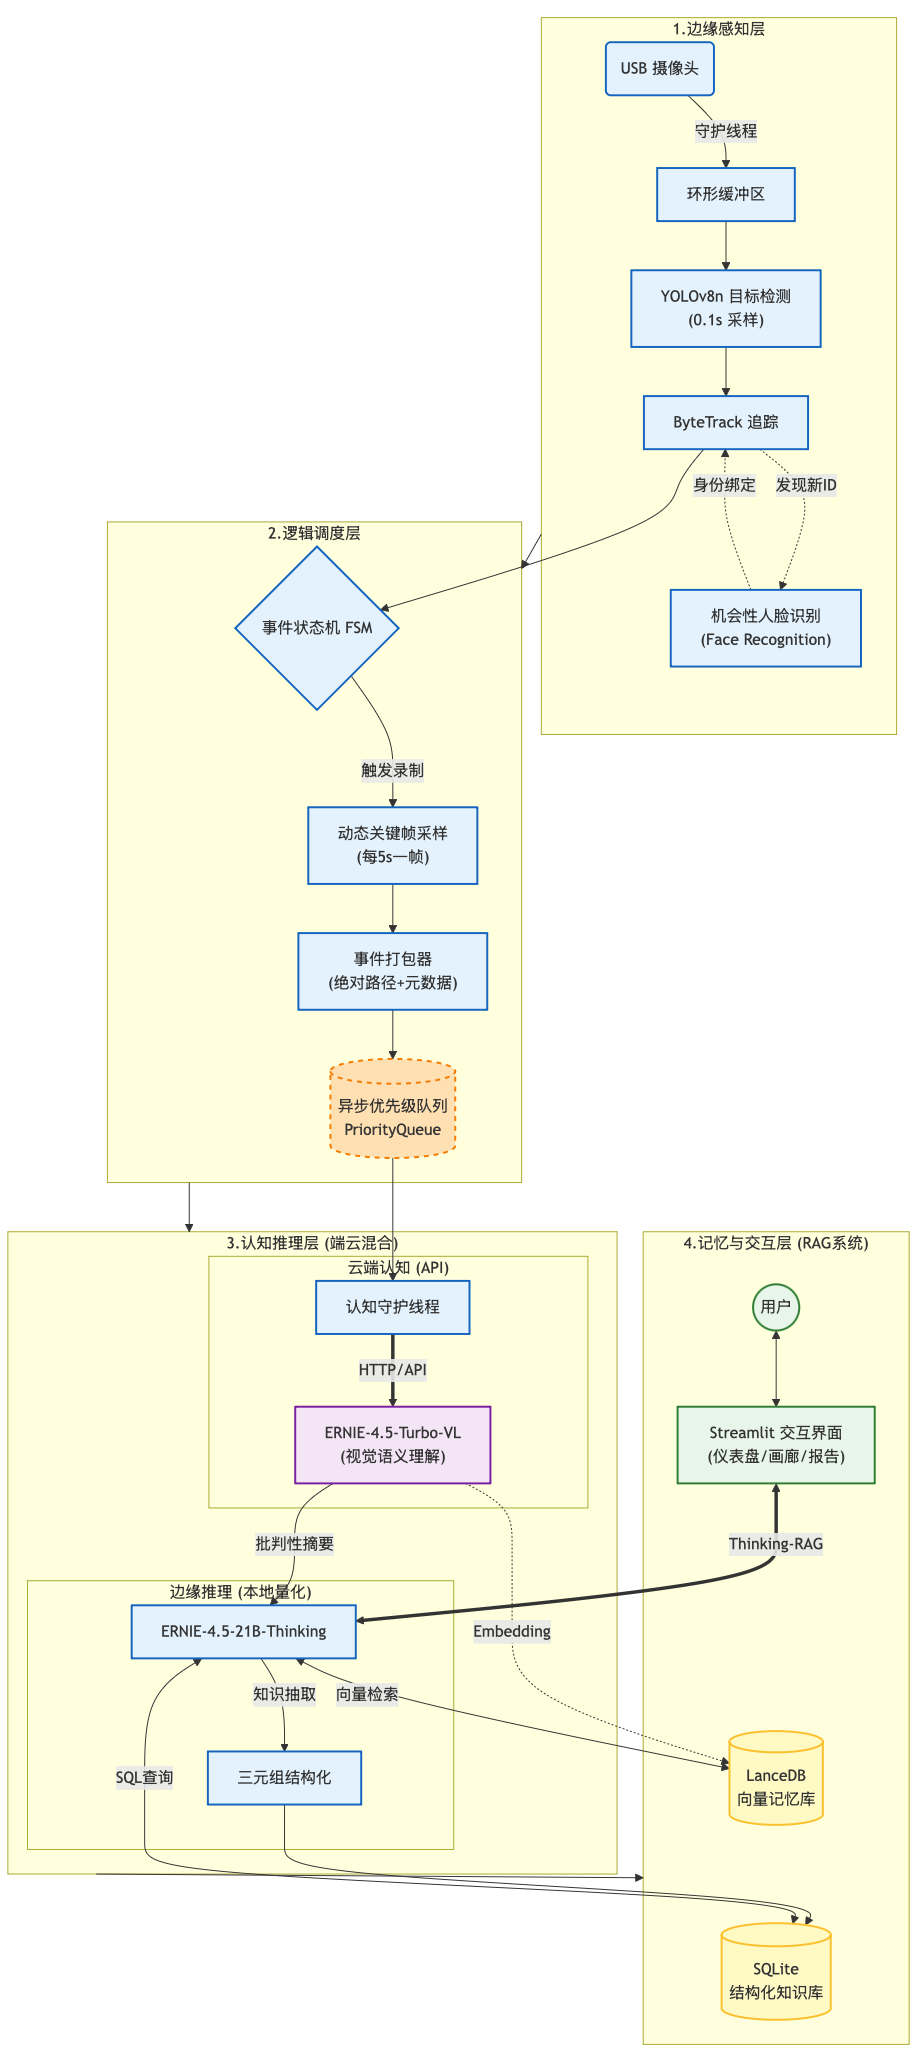
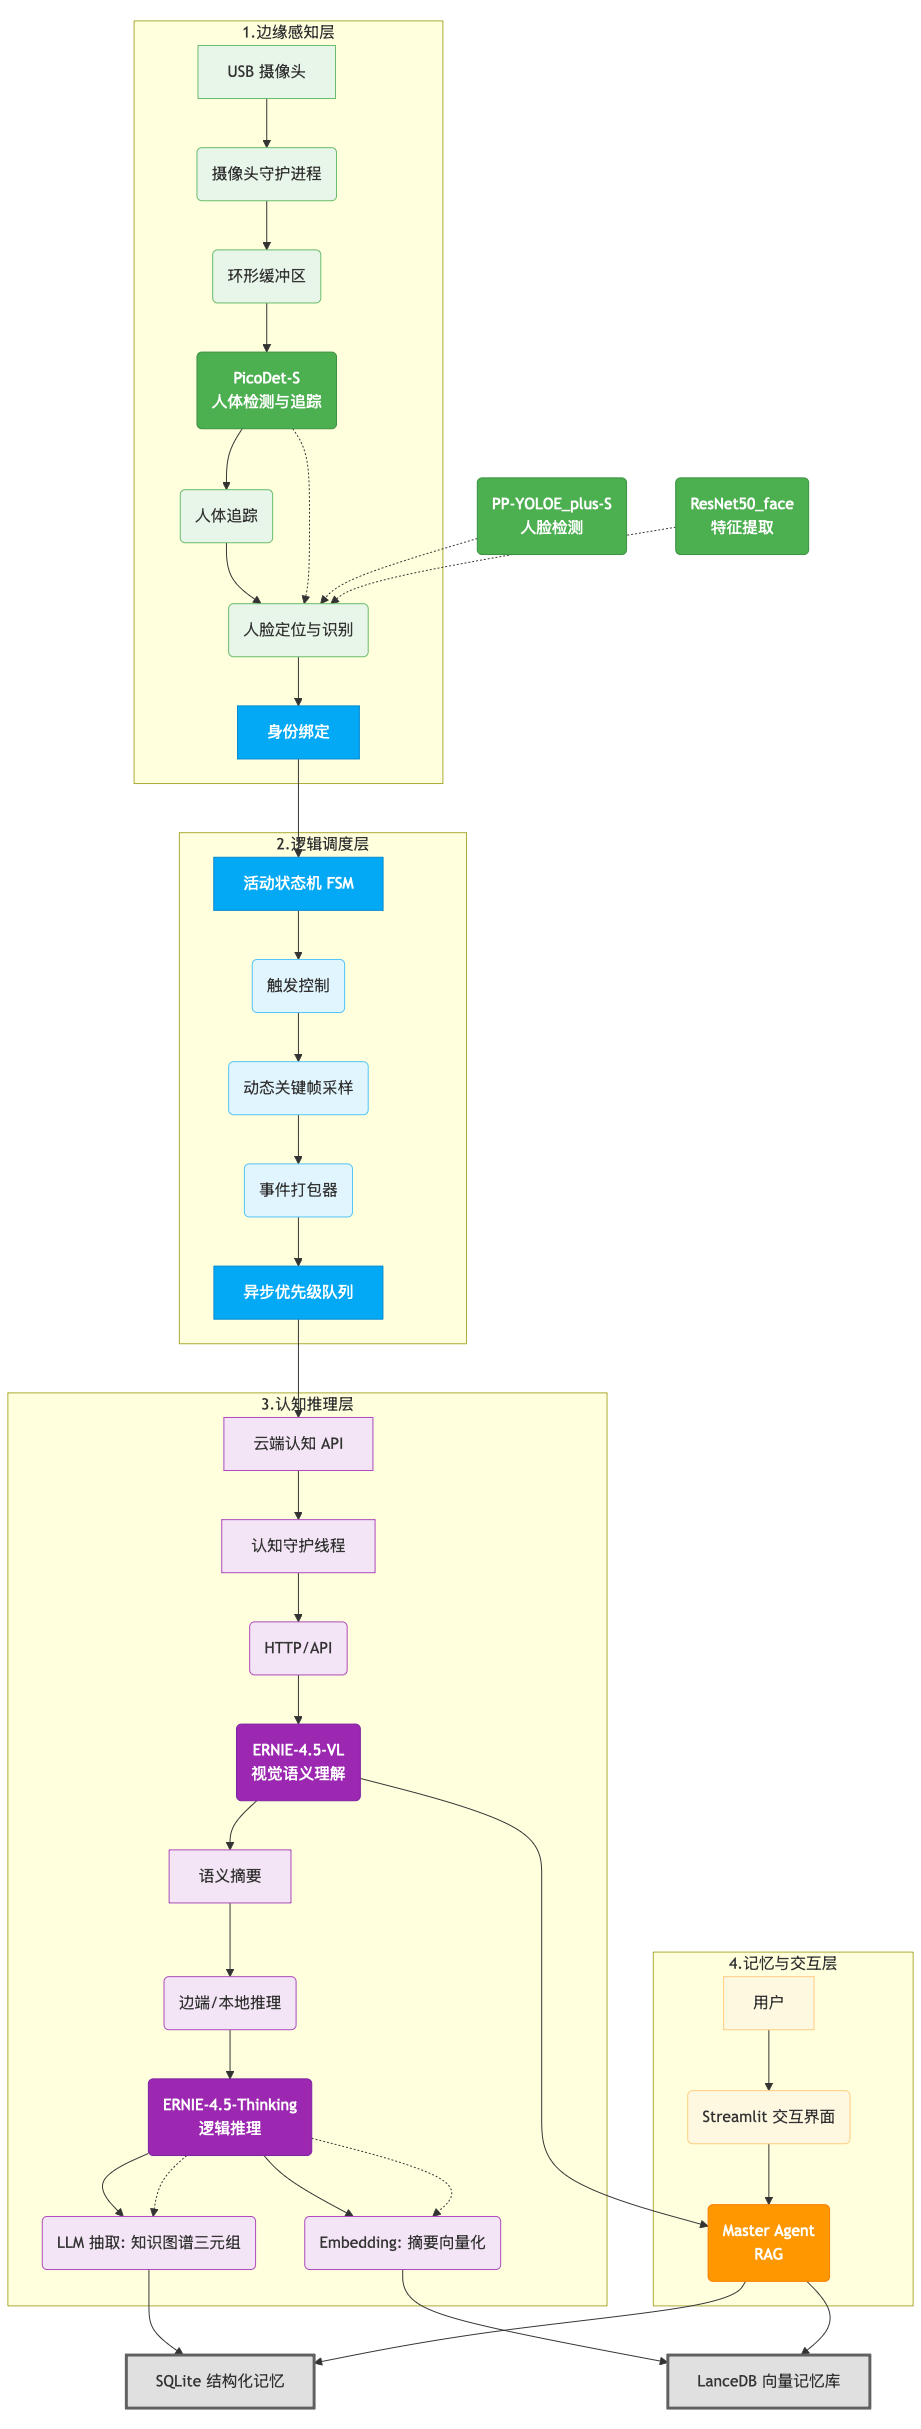
调整README

diff --git a/src/cognition/cognitive_core.py b/src/cognition/cognitive_core.py
@@ -11,10 +11,15 @@ logger = logging.getLogger(__name__)
 
 class CognitiveCore:
     def __init__(self):
-        print(f"  [Cognition] 初始化 AI Client...")
-        if not config.API_KEY:
-            logger.error("❌ API_KEY 未设置")
-        self.client = OpenAI(api_key=config.API_KEY, base_url=config.BASE_URL)
+        print(f"  [Cognition] 初始化 LVM Client...")
+        if not config.LVM_API_KEY:
+            logger.error("❌ LVM_API_KEY 未设置")
+        self.lvm_client = OpenAI(api_key=config.LVM_API_KEY, base_url=config.LVM_BASE_URL)
+        
+        print(f"  [Cognition] 初始化 LLM Client...")
+        if not config.LLM_API_KEY:
+            logger.error("❌ LLM_API_KEY 未设置")
+        self.llm_client = OpenAI(api_key=config.LLM_API_KEY, base_url=config.LLM_BASE_URL)
         
     def analyze_event(self, event_data):
         event_id = event_data['event_id']
@@ -113,8 +118,8 @@ class CognitiveCore:
         if valid_images == 0: return None
 
         try:
-            resp = self.client.chat.completions.create(
-                model=config.AI_VL_MODEL, 
+            resp = self.lvm_client.chat.completions.create(
+                model=config.LVM_MODEL_NAME, 
                 messages=[{"role": "user", "content": content}],
                 temperature=0.2,
                 max_tokens=1000, 
@@ -128,8 +133,8 @@ class CognitiveCore:
     def _extract_kg(self, text):
         prompt = f"提取实体和关系(JSON): {text}"
         try:
-            resp = self.client.chat.completions.create(
-                model=config.AI_THINKING_MODEL,
+            resp = self.llm_client.chat.completions.create(
+                model=config.LLM_MODEL_NAME,
                 messages=[{"role": "user", "content": prompt}],
                 temperature=0.1,
                 response_format={"type": "json_object"}

diff --git a/config.py b/config.py
@@ -21,14 +21,17 @@ SQLITE_DB_PATH = "./memory_db/knowledge.db"
 IMAGE_STORAGE_PATH = "./event_images"
 FACE_INDEX_DIR = "./face_index"
 
-# --- 模型 API 配置 (关键修复) ---
-# 优先读取 ERNIE_API_KEY，如果没有则尝试读取 API_KEY
-API_KEY = os.getenv("ERNIE_API_KEY") or os.getenv("API_KEY", "")
-BASE_URL = os.getenv("ERNIE_BASE_URL") or os.getenv("BASE_URL", "https://aistudio.baidu.com/llm/lmapi/v3")
+# --- 视觉大模型 API 配置 (LVM) ---
+LVM_API_KEY = os.getenv("LVM_API_KEY", "")
+LVM_BASE_URL = os.getenv("LVM_BASE_URL", "https://aistudio.baidu.com/llm/lmapi/v3")
+LVM_MODEL_NAME = "ernie-4.5-turbo-vl"  # 视觉模型
 
-# 模型名称
-AI_VL_MODEL = "ernie-4.5-turbo-vl"  # 视觉模型
-AI_THINKING_MODEL = "ernie-4.5-vl-28b-a3b-thinking" # 思考/总结模型
+# --- 语言大模型 API 配置 (LLM) ---
+LLM_API_KEY = os.getenv("LLM_API_KEY", "")
+LLM_BASE_URL = os.getenv("LLM_BASE_URL", "https://aistudio.baidu.com/llm/lmapi/v3")
+LLM_MODEL_NAME = "ernie-4.5-21b-a3b-thinking"  # 思考/总结模型
+
+# --- 其他模型 ---
 EMBEDDING_MODEL_PATH = "sentence-transformers/all-MiniLM-L6-v2"
 
 # PaddlePaddle 设置
@@ -36,5 +39,7 @@ PADDLE_DEVICE = "cpu" # 或 "gpu"
 DET_MODEL_NAME = "PPLCNet_x1_0_person_detection"
 
 # 检查 Key 是否存在
-if not API_KEY:
-    print("⚠ 警告: 未检测到 API_KEY，请检查 .env 文件！")
+if not LVM_API_KEY:
+    print("⚠ 警告: 未检测到 LVM_API_KEY，请检查 .env 文件！")
+if not LLM_API_KEY:
+    print("⚠ 警告: 未检测到 LLM_API_KEY，请检查 .env 文件！")

diff --git a/src/agent/master_agent.py b/src/agent/master_agent.py
@@ -12,11 +12,8 @@ logger = logging.getLogger(__name__)
 class MasterAgent:
     def __init__(self, memory: LongTermMemory):
         self.memory = memory
-        # 兼容 config 写法，优先读取 ERNIE 配置
-        api_key = getattr(config, 'API_KEY', getattr(config, 'ERNIE_API_KEY', ''))
-        base_url = getattr(config, 'BASE_URL', getattr(config, 'ERNIE_BASE_URL', ''))
-        
-        self.llm_client = OpenAI(api_key=api_key, base_url=base_url)
+        # 使用 LLM 配置
+        self.llm_client = OpenAI(api_key=config.LLM_API_KEY, base_url=config.LLM_BASE_URL)
         logger.info("MasterAgent initialized.")
 
     def _get_query_route(self, query: str) -> str:
@@ -36,7 +33,7 @@ class MasterAgent:
         """
         try:
             # 使用思考模型进行路由决策
-            model_name = getattr(config, 'AI_THINKING_MODEL', 'ernie-4.5-vl-28b-a3b-thinking')
+            model_name = config.LLM_MODEL_NAME
             response = self.llm_client.chat.completions.create(
                 model=model_name, 
                 messages=[{"role": "user", "content": prompt}], 
@@ -110,7 +107,7 @@ class MasterAgent:
         【用户问题】: {query}
         """
         try:
-            model_name = getattr(config, 'AI_THINKING_MODEL', 'ernie-4.5-vl-28b-a3b-thinking')
+            model_name = config.LLM_MODEL_NAME
             resp = self.llm_client.chat.completions.create(
                 model=model_name,
                 messages=[{"role": "user", "content": prompt}],

diff --git a/src/app/qa_interface.py b/src/app/qa_interface.py
@@ -19,7 +19,7 @@ logging.basicConfig(level=logging.INFO, format='%(asctime)s - %(levelname)s - %(
 class QA_Agent:
     def __init__(self):
         print("\n正在初始化命令行问答助手...")
-        self.memory = LongTermMemory(db_path=config.DB_PATH)
+        self.memory = LongTermMemory(db_path=config.SQLITE_DB_PATH)
         self.llm_client = OpenAI(api_key=config.LLM_API_KEY, base_url=config.LLM_BASE_URL)
         print("\n问答助手已就绪！请输入您的问题，或输入 '退出' 来结束。")
 

diff --git a/src/memory/long_term_memory.py b/src/memory/long_term_memory.py
@@ -39,7 +39,8 @@ class LongTermMemory:
         except:
             self.embedding_model = SentenceTransformer('all-MiniLM-L6-v2', device='cpu')
             
-        self.llm_client = OpenAI(api_key=config.API_KEY, base_url=config.BASE_URL)
+        # 使用 LLM 配置
+        self.llm_client = OpenAI(api_key=config.LLM_API_KEY, base_url=config.LLM_BASE_URL)
 
     def _init_sqlite_tables(self):
         with self.db_lock:

diff --git a/src/web_utils.py b/src/web_utils.py
@@ -236,7 +236,7 @@ def generate_daily_report_content(date_obj=None):
     try:
         if MASTER_AGENT:
             resp = MASTER_AGENT.llm_client.chat.completions.create(
-                model=config.AI_THINKING_MODEL, 
+                model=config.LLM_MODEL_NAME, 
                 messages=[{"role": "user", "content": prompt}], 
                 temperature=0.6 # 稍微提高温度，让文笔更好
             )

diff --git a/README.md b/README.md
@@ -1,51 +1,52 @@
-# HearthScribe: 基于文心大模型的智能家庭记忆助手
+# HearthScribe: 基于文心大模型的适老化智能看护系统
 
-**HearthScribe** 是一个深度集成 **百度文心大模型** 的智能代理系统。它不仅仅是一个摄像头监控程序，更是一个拥有“感知”、“认知”和“记忆”能力的家庭观察者。
+**HearthScribe** 是一个深度集成 **百度文心大模型** 的适老化智能看护系统。它不仅仅是一个摄像头监控程序，更是一个拥有“感知”、“认知”和“记忆”能力的家庭守护者，专为长者设计。
 
-本项目充分利用了文心大模型强大的多模态理解与逻辑推理能力。它能实时识别画面人物，利用 **ERNIE-4.5-VL** 捕捉并理解生活瞬间，生成语义化摘要，并构建本地知识图谱。用户可以通过自然语言与系统对话，检索过去的记忆，或生成基于事实的生活报告。
+本项目充分利用文心大模型强大的多模态理解与逻辑推理能力，能实时识别长者与家人的互动，利用 **ERNIE-4.5-VL** 捕捉生活瞬间，生成语义化摘要，并构建本地知识图谱。通过自然语言交互，用户可检索记忆、生成健康报告，实现 24 小时无微不至的 AI 关怀。
 
-![alt text](images/kg.png)
-
+![alt text](images/homepage.png)
 
 ## ✨ 核心功能
 
 *   **👁 智能感知与身份识别**
-    *   使用 **YOLOv8** 进行边缘端实时人体检测与追踪。
-    *   集成 **Face Recognition**，自动识别已注册的家庭成员身份。
-    *   **摄像头守护进程**：具备断线自动重连和错误恢复机制，确保持续稳定运行。
+    *   使用 **PaddleX 的 PicoDet-S (PPLCNet_x1_0_person_detection)** 进行边缘端实时人体检测与追踪，轻量高效，适用于 CPU/GPU 环境。
+    *   集成 **PaddleX 的 PP-YOLOE_plus-S_face** (人脸检测) + **ResNet50_face** (人脸识别)，自动识别长者及家庭成员身份，支持高精度特征提取。
+    *   **摄像头守护进程**：具备断线自动重连和错误恢复机制，确保持续稳定运行，24 小时不间断守护。
 
-*   **🧠 文心驱动的语义记忆**
-    *   **动态采样**：基于活动检测自动开始/停止录制，过滤无效画面。
-    *   **视觉认知 (ERNIE-4.5-VL)**：调用文心视觉大模型分析事件截图，精准理解人物行为、物体交互与场景细节（如“lizhijun正在书桌前阅读，手里拿着一杯咖啡”）。
-    *   **知识提取**：从摘要中提取实体（人物、物品、地点）和关系，构建结构化知识图谱。
+*   **🧠 文心驱动的语义记忆与健康认知**
+    *   **动态采样**：基于长者活动检测自动开始/停止录制，过滤无效画面，专注关键时刻。
+    *   **视觉认知 (ERNIE-4.5-VL)**：调用文心视觉大模型分析事件截图，精准理解长者行为、物体交互与场景细节（如“长者正在沙发上阅读，手里拿着一杯水”）。
+    *   **知识提取**：从摘要中提取实体（长者、物品、地点）和关系，构建结构化知识图谱，支持关系推理。
 
 *   **💾 双重记忆存储 (RAG)**
-    *   **向量记忆 (LanceDB)**：存储事件摘要的语义向量，支持模糊搜索。
-    *   **结构化记忆 (SQLite)**：存储元数据、知识图谱三元组和原始图片路径。
+    *   **向量记忆 (LanceDB)**：存储事件摘要的语义向量，支持模糊搜索长者历史活动。
+    *   **结构化记忆 (SQLite)**：存储元数据、知识图谱三元组和原始图片路径，便于健康数据追踪。
 
-*   **💬 自然语言交互**
-    *   **智能路由**：Master Agent 能够理解用户意图，自动调度“记忆检索”、“图谱推理”或“总结报告”专家。
-    *   **多轮问答 (ERNIE-4.5)**：基于检索增强生成 (RAG)，利用文心大模型优秀的中文理解能力，用自然语言流畅回答关于家庭历史的复杂问题。
-    *   **自动报告**：支持生成日报、周报，总结特定时间段内的活动模式。
+*   **💬 自然语言交互与关怀报告**
+    *   **智能路由**：Master Agent 理解用户意图，自动调度“记忆检索”、“图谱推理”或“健康总结”专家。
+    *   **多轮问答 (ERNIE-4.5)**：基于 RAG，利用文心大模型的中文理解能力，用温暖口吻回答关于长者历史的复杂问题（如“妈妈今天精神如何？”）。
+    *   **自动适老报告**：生成日报、周报，涵盖生活画像、健康评估、风险检测与专属建议，帮助子女远程关怀。
 
 ## 🏗 系统架构与运行逻辑
 
-系统主要由以下几个核心模块组成：
+系统主要由以下几个核心模块组成，专为适老场景优化：
 
 1.  **感知层 (`perception_processor.py`)**:
-    *   处理视频流，利用 YOLO 追踪 ID，结合人脸识别将 ID 映射为具体姓名。
+    *   处理视频流，利用 PaddleX 的 PicoDet-S 进行人体检测与追踪，结合 PP-YOLOE_plus-S_face + ResNet50_face 将检测框映射为长者姓名。
 2.  **记忆流 (`memory_stream.py`)**:
-    *   作为短期记忆缓冲区。当画面有人活动时开始缓存帧，静止超过阈值（如60秒）则判定事件结束，打包成“Event”。
+    *   作为短期记忆缓冲区。当画面检测到长者活动时开始缓存帧，静止超过阈值（如30秒）则判定事件结束，打包成“Event”。
 3.  **认知核心 (`cognitive_core.py`)**:
-    *   接收打包的 Event，选取关键帧发送给 **LVM (视觉大模型)** 生成摘要。
-    *   调用 **LLM** 从摘要中提取 Knowledge Graph (KG) 数据。
+    *   接收打包的 Event，选取关键帧发送给 **LVM (视觉大模型)** 生成摘要，评估交互与风险。
+    *   调用 **LLM** 从摘要中提取 Knowledge Graph (KG) 数据，注入健康洞察。
 4.  **长期记忆 (`long_term_memory.py`)**:
     *   将文本摘要通过 Embedding 模型转换为向量存入 LanceDB。
-    *   将 KG 数据和事件元数据存入 SQLite。
+    *   将 KG 数据和事件元数据存入 SQLite，支持长期健康趋势分析。
 5.  **代理交互 (`master_agent.py` & `web_utils.py`)**:
-    *   处理用户查询，协调各模块检索信息，最终生成回答。
+    *   处理用户查询，协调各模块检索信息，最终生成温暖的关怀回答与报告。
 
-![alt text](images/system.png)
+<div align="center">
+  <img src="images/system.png" style="width: 60%; max-height: none; display: block;" />
+</div>
 
 ## 📂 目录结构
 
@@ -55,16 +56,16 @@ HearthScribe/
 ├── config.py               # 全局配置文件
 ├── .env                    # 环境变量（API Key等）
 ├── requirements.txt        # 依赖库
-├── known_faces/            # 已知人脸库目录
-│   ├── zhangsan/           # 张三的照片文件夹
-│   └── lisi/               # 李四的照片文件夹
+├── known_faces/            # 已知人脸库目录（优先录入长者照片）
+│   ├── grandma/            # 长者照片文件夹
+│   └── family_member/      # 家庭成员照片文件夹
 ├── memory_db/              # 数据库存储路径 (自动生成)
 ├── event_images/           # 事件图片存储路径 (自动生成)
 └── src/
     ├── agent/              # 代理与路由逻辑
     ├── cognition/          # 视觉理解与认知核心
     ├── memory/             # 向量库与数据库管理
-    ├── perception/         # YOLO与人脸识别
+    ├── perception/         # PaddleX 检测与人脸识别
     └── app/                # UI与任务接口
 ```
 
@@ -72,26 +73,32 @@ HearthScribe/
 
 ### 1. 环境准备
 
-建议使用 Python 3.10+ 环境。
+建议使用 Python 3.10+ 环境，并安装 PaddlePaddle（推荐 CPU/GPU 版本）。
 
 ```bash
 # 克隆仓库
 git clone https://github.com/ZhijunLStudio/HearthScribe.git
 cd HearthScribe
 
-# 安装依赖
+# 安装依赖（包括 PaddleX）
 pip install -r requirements.txt
+pip install paddlepaddle  # 或 paddlepaddle-gpu
+pip install paddlex  # 核心 PaddleX 库
 ```
 
 ### 2. 模型与配置
 
 #### 自动下载的模型
-首次运行时，代码会自动从 HuggingFace 或 Ultralytics 下载以下模型到本地：
-*   **YOLOv8n.pt**: 用于人体检测 (轻量级)。
+首次运行时，代码会自动从 PaddleX 官方模型库下载以下模型到本地缓存（`~/.paddlex/official_models/`）：
+*   **PPLCNet_x1_0_person_detection (PicoDet-S)**: 用于人体检测，轻量级实时追踪。
+*   **PP-YOLOE_plus-S_face**: 用于人脸检测。
+*   **ResNet50_face**: 用于人脸特征提取与识别。
 *   **SentenceTransformer (all-MiniLM-L6-v2)**: 用于生成文本向量嵌入。
 
+如果需要重新下载，删除 `~/.paddlex/official_models/` 目录即可。
+
 #### 配置文件 (.env)
-在项目根目录创建 `.env` 文件，配置你的大模型 API（支持 OpenAI 格式，可接入本地 vLLM 或云端服务）：
+在项目根目录创建 `.env` 文件，配置你的大模型 API（支持 OpenAI 格式，可接入本地 vLLM 或云端服务）。已解耦为视觉大模型 (LVM) 和语言大模型 (LLM) 配置：
 
 ```ini
 # 视觉大模型配置 (LVM)
@@ -106,12 +113,12 @@ LLM_MODEL_NAME=ernie-4.5-21b-a3b-thinking
 ```
 
 ### 3. 录入人脸数据
-在 `known_faces` 目录下创建以人名命名的文件夹，并放入该人的清晰面部照片（jpg/png）。
+在 `known_faces` 目录下创建以人名命名的文件夹，并放入该人的清晰面部照片（jpg/png）。**优先录入长者照片**，以提升识别准确率。
 例如：
-*   `./known_faces/Daddy/photo1.jpg`
-*   `./known_faces/Mom/photo1.jpg`
+*   `./known_faces/grandma/photo1.jpg`
+*   `./known_faces/son/photo1.jpg`
 
-系统启动时会自动加载并编码这些人脸。
+系统启动时会自动加载并编码这些人脸（使用 ResNet50_face 提取特征）。
 
 ### 4. 运行系统
 
@@ -120,7 +127,7 @@ LLM_MODEL_NAME=ernie-4.5-21b-a3b-thinking
 ```bash
 python main.py
 ```
-*程序启动后会初始化摄像头守护线程，加载 AI 模型，并开始在后台静默记录事件。*
+*程序启动后会初始化摄像头守护线程，加载 PaddleX 模型，并开始在后台静默记录长者活动。*
 
 **启动 Web 交互界面 ：**
 
@@ -130,9 +137,11 @@ streamlit run tools/app_streamlit.py
 
 ## ⚙ 关键配置说明 (`config.py`)
 
-你可以根据硬件性能调整 `config.py` 中的参数：
+你可以根据硬件性能调整 `config.py` 中的参数，优化适老守护体验：
 
-*   **`PROCESS_INTERVAL`**: 主循环处理间隔，调大可降低 CPU 占用。
-*   **`FRAME_CAPTURE_INTERVAL`**: 事件记录时每隔几秒抓取一帧（默认 5秒），影响 LVM 理解的细粒度。
-*   **`EVENT_INACTIVITY_TIMEOUT`**: 画面静止多久后判定事件结束（默认 60秒）。
-*   **`EVENT_MAX_DURATION_SECONDS`**: 单个事件最大时长，超过会强制切分（默认 300秒）。
+*   **`PROCESS_INTERVAL`**: 主循环处理间隔，调大可降低 CPU 占用（默认 2 秒）。
+*   **`FRAME_CAPTURE_INTERVAL`**: 事件记录时每隔几秒抓取一帧（默认 2 秒），影响 LVM 理解的细粒度。
+*   **`EVENT_INACTIVITY_TIMEOUT`**: 画面静止多久后判定事件结束（默认 30 秒），适合长者慢节奏活动。
+*   **`EVENT_MAX_DURATION_SECONDS`**: 单个事件最大时长，超过会强制切分（默认 60 秒）。
+*   **`DET_MODEL_NAME`**: 检测模型名称，默认 `"PPLCNet_x1_0_person_detection"` (PicoDet-S)，可切换其他 PaddleX 模型。
+*   **`PADDLE_DEVICE`**: PaddlePaddle 运行设备，默认 `"cpu"`，GPU 用户可设为 `"gpu"`。
